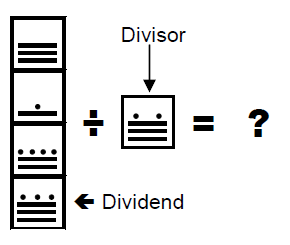
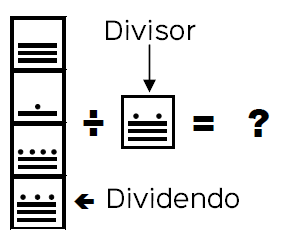
División

Changed region(s): [[0.3414, 0.7429, 0.8379, 0.8571], [0.3414, 0.0571, 0.6828, 0.1714]]

diff --git a/index.html b/index.html
@@ -715,12 +715,35 @@
                     <div class="col-lg-8 col-lg-offset-2">
                         <div class="modal-body">
                             <!-- Project Details Go Here -->
-                            <h2>Project Name</h2>
-                            <p class="item-intro text-muted">Lorem ipsum dolor sit amet consectetur.</p>
-                            <img class="img-responsive img-centered" src="img/portfolio/arabtomaya.png" alt="">
-                            <p>Start Bootstrap's Agency theme is based on Golden, a free PSD website template built by <a href="https://www.behance.net/MathavanJaya">Mathavan Jaya</a>. Golden is a modern and clean one page web template that was made exclusively for Best PSD Freebies. This template has a great portfolio, timeline, and meet your team sections that can be easily modified to fit your needs.</p>
-                            <p>You can download the PSD template in this portfolio sample item at <a href="http://freebiesxpress.com/gallery/golden-free-one-page-web-template/">FreebiesXpress.com</a>.</p>
-                            <button type="button" class="btn btn-primary" data-dismiss="modal"><i class="fa fa-times"></i> Close Project</button>
+                            <h2>División</h2>
+                            <p class="item-intro text-muted">Aprendamos como dividir en maya :)</p>
+                            <div class="row steps_text">
+                                <p>Como con la multiplicación, la división es usualmente un proceso multi-paso más que una sola operación.</p>
+                                <img src="img/portfolio/division/d1.png">
+                                <p class="steps_title" style="color:#FF1C57">PASO 1</p>
+                                <p>Escribamos el problema de una forma en la que sea conveniente de solucionar: <br> <img src="img/portfolio/division/d2.png">
+                                <br>
+                                Ahora, en el primer nivel tenemos la resta <br>
+                                <img src="img/portfolio/resta/r3.png"><br>
+                                </p>
+
+                                <p class="steps_title" style="color:#FF9900">PASO 2</p>
+                                <p>
+                                ¿Cómo encontraremos la respuesta? Lo haremos buscando el resultado <img src="img/portfolio/resta/r4.png"> en la columna de <img src="img/portfolio/resta/r5.png"> en la tabla de suma. Al encontrarlo, notamos que también está en la fila de  <img src="img/portfolio/resta/r6.png">. <br>Por lo tanto, escribimos este dígito en el primer nivel de la respuesta. <br>
+                                <br>Pasamos al segundo nivel, tenemos la resta <img src="img/portfolio/resta/r7.png">,y buscamos <img src="img/portfolio/resta/r8.png"> en la columna de <img src="img/portfolio/resta/r9.png">, encontramos que <img src="img/portfolio/resta/r10.png"> también está en la fila de <img src="img/portfolio/resta/r11.png">. <br>Escribimos este dígito en el segundo nivel de la respuesta.  El resultado es <br><br>  <img src="img/portfolio/resta/r13.png"><br>
+
+                                <span style="font-size:2em;">347 - 291 = 56. <span style="color:#009933;">OK.</span> </span>
+
+                                </p>
+
+                                <p class="steps_title" style="color:#00A37A">-- Reglas 4 --</p>
+                                <p>Para el realizar la resta, debemos tener en cuenta los siguientes criterios:</p>
+                                    <ul class="notas">
+                                        <li>5 puntos equivalen a 1 rayita</li>
+                                        <li>Sólo pueden haber hasta 4 puntos en un mismo nivel</li>
+                                        <li>Sólo pueden haber hasta 3 líneas en un mismo nivel</li>
+                                    </ul>
+                            </div
                         </div>
                     </div>
                 </div>
